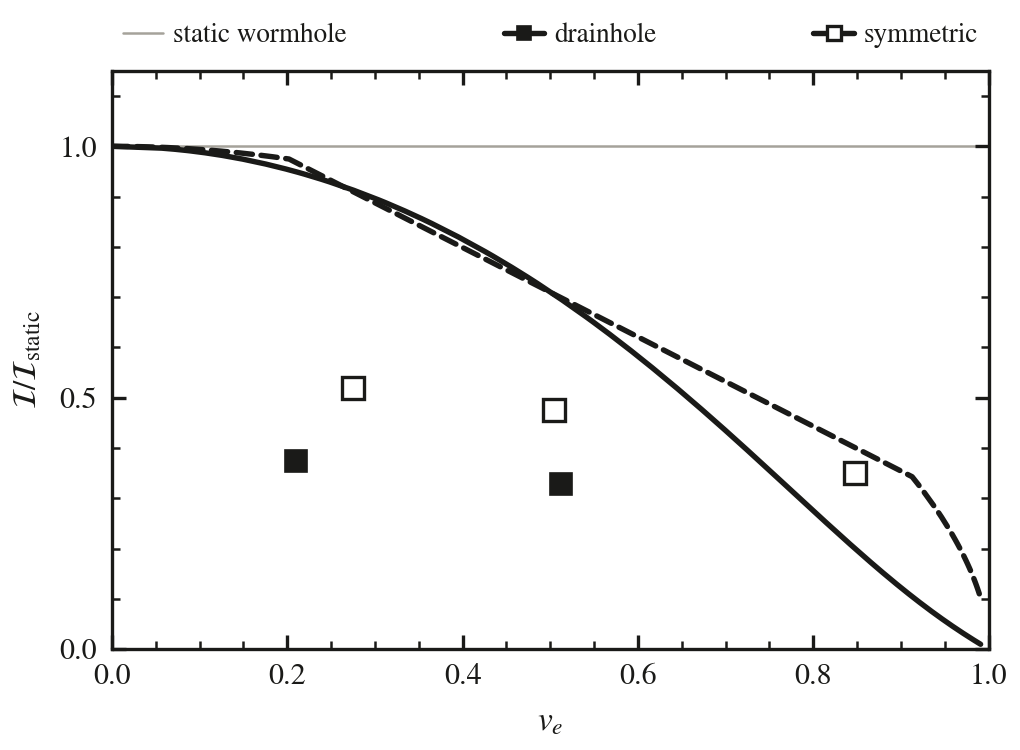
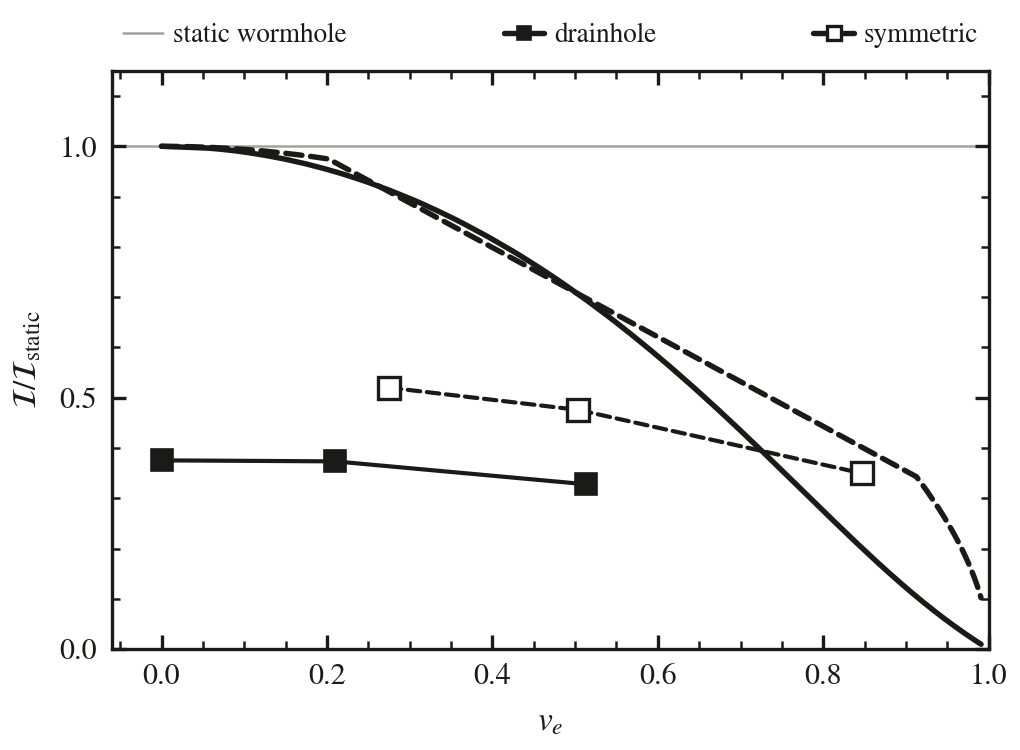
Start the D30 pinned-J CMA-ES and put D0 on the spin curve.

diff --git a/grteclyn-wrapper/src/grteclyn_wrapper/visualisation/optimisation/plot_exotic_spin.py b/grteclyn-wrapper/src/grteclyn_wrapper/visualisation/optimisation/plot_exotic_spin.py
@@ -31,9 +31,10 @@ from grteclyn_wrapper.visualisation.wormhole_merger import style
 REPO = pathlib.Path(__file__).resolve().parents[5]
 OUT = REPO / "results" / "optimisation" / "figures"
 
-# X = |VIQ|/R_e from STATUS 2026-10-29.  v_e is the packed member (symmetric)
-# or the packed spinning header (drainhole D21, D51).
+# X = |VIQ|/R_e from STATUS.  v_e is the packed member (symmetric) or the
+# packed spinning header (drainhole D21, D51); D0 is J = 0 (search-best).
 FOUND = (
+    ("drainhole", 0.0, 1.83872766),
     ("drainhole", 0.2100172006151723, 1.8287958015),
     ("drainhole", 0.5127052512125934, 1.6061738698),
     ("symmetric", 0.2747870070282676, 1.63372),
@@ -67,12 +68,15 @@ def plot(out=OUT) -> None:
     handles = [(Line2D([], [], color=style.FAINT, lw=0.6), "static wormhole")]
     for fam, (*_, name, ls) in zip(fams, FAMILIES):
         _curve(ax, fam, ls)
-        pts = [(ve, X / x0[name]) for n, ve, X in FOUND if n == name]
-        ax.plot(*zip(*pts), ls="none", zorder=3, **MARK[name])
+        pts = sorted((ve, X / x0[name]) for n, ve, X in FOUND if n == name)
+        xv, yv = zip(*pts)
+        ax.plot(xv, yv, color=style.INK, ls=ls, lw=1.0, zorder=2)
+        ax.plot(xv, yv, ls="none", zorder=3, **MARK[name])
         handles.append((Line2D([], [], color=style.INK, ls=ls, lw=1.3,
                                **{**MARK[name], "ms": 3.4}), name))
     ax.set(xlabel=r"$v_e$", ylabel=r"$\mathcal{I}/\mathcal{I}_{\rm static}$",
-           xlim=(0, 1), ylim=(0, 1.15))
+           xlim=(-0.06, 1), ylim=(0, 1.15))
+    ax.set_xticks([0.0, 0.2, 0.4, 0.6, 0.8, 1.0])
     ax.set_yticks([0.0, 0.5, 1.0])
     style.legend_top(ax, handles, ncol=3, borderpad=0.4, **TIGHT)
     hits = style.label_audit(fig)

diff --git a/research/optimisation/STATUS.md b/research/optimisation/STATUS.md
@@ -22,7 +22,8 @@ Dead N96/N128 plotfiles wiped 2026-10-30 (11 GB); frames kept.
 |---|---|---|---|---|
 | `D21_X1p829_L64_N096_ml3_spdrv0_t150` | — | 87.5, NaN in h11 (level 3) | dead | — |
 | `D21_X1p829_L64_N128_ml3_spdrv0_t150` | — | 97.7, NaN in A11 (level 3) | dead | — |
-| `D21_X1p829_L64_N192_ml3_spdrv0_t150` | 1 | 93.0 | 5.0 u/h | ~11.5 h, ~22:25 MSK 30 Oct |
+| `D21_X1p829_L64_N192_ml3_spdrv0_t150` | 1 | 93.5 | 5.0 u/h | ~11.3 h, ~22:20 MSK 30 Oct |
+| `opt-d30` | 0 | walk-in | — | ~1.3 h, ~12:20 MSK |
 
 N 96 / N 128 both died mid-plunge (R_eq −24% / −27%; MOTS R settled ~3.49, not the classical 2.52). Onset later at N 128 (−1% at t=67 vs 58). N 192 is at R_eq −0.6%, −0.1% at t=62.
 
@@ -30,12 +31,12 @@ N 96 / N 128 both died mid-plunge (R_eq −24% / −27%; MOTS R settled ~3.49, n
 
 D0 1.2 h (~09:10 MSK), D30 1.3 h after that (~10:30 MSK), D80 1.3 h (~11:50 MSK), D90 1.3 h (~13:10 MSK).
 
-D0 finished 09:06 MSK. D30 was stopped at start; D80/D90 held.
-`opt-d21-area-freej400` finished 10:46 MSK (400 evals, exit 0). Card 0 free. TSV `runs/optimisation/opt/fam_a_r1_0000_opt4s_area_freeJ_150x30.tsv`.
+D0 finished 09:06 MSK. `opt-d21-area-freej400` finished 10:46 MSK.
+Card 0 now runs `opt-d30`: D21 recipe (x0 kink, 150×30, 400 evals, q∈[-2,8], `--stability`), J and R_e held, seed 103. TSV `runs/optimisation/opt/fam_a_r1_0005_opt4s_kink_150x30.tsv`. D80/D90 held.
 
 ## Planned (nothing launches without the go)
 
-D51 X 1.606 triplet stays written, not launched. D30/D80/D90 CMA stay held.
+D51 X 1.606 triplet stays written, not launched. D80/D90 CMA stay held.
 
 ## Main results
 
